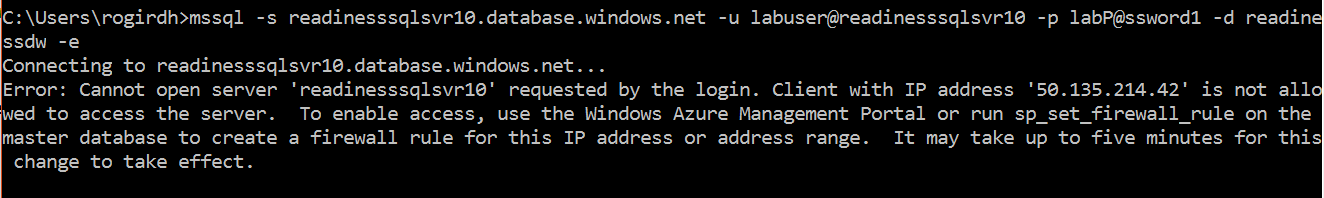
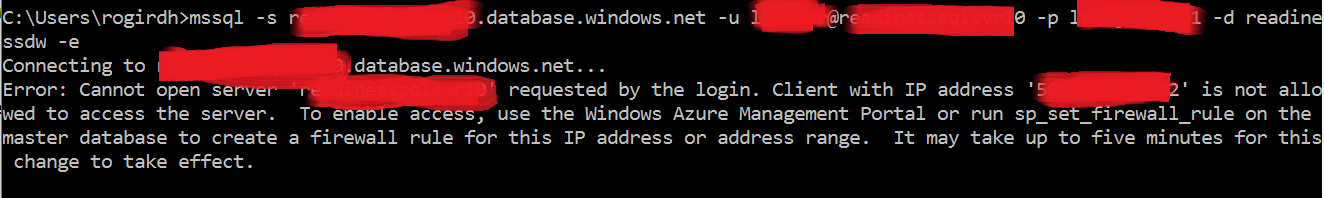
Edits in Module 3

diff --git a/Data/Module3-Security/README.md b/Data/Module3-Security/README.md
@@ -46,7 +46,7 @@ OR
 ### Setup (To be completed if you did not complete Module 2) ###
 In order to work on this exercise, it is recommended that you complete module 2. However, if you have not completed module 2, please follow this setup in order to successfully complete this exercise.
 
->**Note:** If you've completed **Module 2**, you may **skip the setup** and start with Exercise #1.
+>**Note:** If you've completed **Module 2**, you may **skip the setup** and start with Exercise #1. However, we recommend having a seperate setup for Module 3.
 
 <a name="SqlDWCreation"> </a>
 #### SQL Data Warehouse Creation #####
@@ -223,23 +223,29 @@ When creating the he SQL DW, we whitelisted _almost_ all IP address. So, in this
 
 
 1. Navigate to the Azure portal (https://portal.azure.com) and make your way to the Azure SQL Server home page.
-	TODO:Screenshot of Azure SQL Home Page & click on the 'Show Firewall settings'
+	![Firewall setting on Azure SQL Server home page](Images/ex1-show-firewall-settings.png?raw=true "Firewall setting on SQL server homepage")
+		
+			_Firewall setting on Azure SQL Server home page_
 
-1. Click on 'Show Firewall Settings'. This should open the firewall rules of your Azure SQL Server. You'll notice that it has one rule pre-defined, which allows any IP address between the range of 0.0.0.0 and 255.255.255.0 to access the server.
+1. Click on 'Show Firewall Settings'. This should open the firewall rules of your Azure SQL Server. You'll notice that it has one rule pre-defined, which allows any IP address between the range of 0.0.0.0 and 255.255.255.0 to access the server. (You will not see this if you have skipped the setup in Module 3 and are using manually created setup from Module 2).
 
 1. Click on the '...' on the right side of this rule and click delete.
-	TODO: Show screenshot
+	
 
 1. Click on save to persist the firewall settings. You should receive a confirmation that the firewall settings have been saved.
-	TODO: Screenshot (ex1-firewall-conf)
+	![Firewall setting confirmation](Images/ex1-firewall-conf.png?raw=true "Firewall setting confirmation")
+		
+			_Firewall setting confirmation_
 
 1. Now, let's switch to our SQL CLI and try to connect to the Azure SQL Data Warehouse using the following command:
 	````
-	mssql -s readinesssqlsvr10.database.windows.net -u labuser@readinesssqlsvr10 -p labP@ssword1 -d readinessdw -e 	[Remove creds]
+	mssql -s <servername>.database.windows.net -u <username>@<servername> -p <password> -d <datawarehousename> -e 
 	````
 
 1. You should receive an error stating that you do not have enough permissions to access the SQL Data Warehouse.
-	TODO: Screenshot (ex1-sql-failed-conn) [Remove Creds]
+	![Failed connecting to SQL Server](Images/ex1-sql-failed-conn.png?raw=true "Failed connecting to SQL Server")
+		
+			_Failed connecting to SQL Server_
 
 1. Make a note of the IP address.
 
@@ -251,7 +257,9 @@ When creating the he SQL DW, we whitelisted _almost_ all IP address. So, in this
 1. Save the changes. This should grant access to the Data Warehouse to only your IP Address.
 
 1. Let's switch again to our SQL CLI and try to connect again to our Data Warehouse. You should now be successful in connecting to the Warehouse.
-	TODO: Screenshot
+	![Successfully connected to SQL Server](Images/ex1-sql-failed-conn.png?raw=true "Successfully connected to SQL Server")
+		
+			_Successfully connected to SQL Server_
 
 
 <a name="Exercise2"></a>
@@ -307,14 +315,20 @@ The primary concept of authentication & authorization is to create separate user
 	SELECT top 10 * from adw.DimProductCatalog
 	````
 
-	TODO: Screenshot (Results) [ex2-select-query]
+	![Select query results](Images/ex2-select-query.png?raw=true "Select query results")
+		
+			_Select query results_
+
 
 1. Now, let's try deleting the table. Since we only gave our user READ access to the database, we should not be able to delete the database.
 	````
 	DROP TABLE adw.DimProductsCatalog
 	````
 
-	TODO: Screenshot (ex2-drop-table)
+	![Drop table error](Images/ex2-drop-table.png?raw=true "Drop table error")
+		
+			_Drop table error_
+
 
 
 
@@ -332,9 +346,9 @@ Row-level security is an important feature for ISVs and SaaS application provide
 
 1. We will create separate users for these customers and give them permissions to only view their sales and not sales of any other category.
 
-1. Let's start by logging into our **master** database using our admin credentials and creating logins for these users
+1. Let's start by logging into our **master** database using our admin credentials and creating logins for these users. Do not forget to log off as Customer1 created in the previous exercise.
 	````
-	mssql -s readinesssqlsvr10.database.windows.net -u labuser@readinesssqlsvr10 -p labP@ssword1 -d master -e	
+	mssql -s <servername>.database.windows.net -u <username>@readinesssqlsvr10 -p <password> -d master -e	
 
 	CREATE LOGIN lighting_user WITH PASSWORD = 'P@ssword1'
 	CREATE LOGIN wheels_user WITH PASSWORD = 'P@ssword2'
@@ -349,8 +363,7 @@ Row-level security is an important feature for ISVs and SaaS application provide
 
 1. The first step here is to create a new **schema** in order to create views on top of our data
 	````
-	CREATE SCHEMA App
-	AUTHORIZATION dbo
+	CREATE SCHEMA App AUTHORIZATION dbo
 	````
 
 1. Next, we'll create a new database role that only has access to this newly created **App** schema
@@ -358,9 +371,7 @@ Row-level security is an important feature for ISVs and SaaS application provide
 	CREATE ROLE app_view AUTHORIZATION [dbo]
 
 
-	GRANT SELECT, VIEW DEFINITION
-	ON SCHEMA::App
-		TO app_view
+	GRANT SELECT, VIEW DEFINITION ON SCHEMA::App TO app_view
 	````
 
 1. We shall now create new users on our database for our different manufacturers. Notice how we set the default schema to **App**
@@ -383,7 +394,9 @@ Row-level security is an important feature for ISVs and SaaS application provide
 
 	.tables
 	````
-	TODO: Screenshot (ex3-user-view-no-tables)
+	![No tables returned](Images/ex3-user-view-no-tables.png?raw=true "No tables returned")
+		
+			_No tables returned_
 
 1. Now that we've assigned our users to the **app** schema. Let's add some views to the schema so that our users can see the data that they're really interested in. 
 
